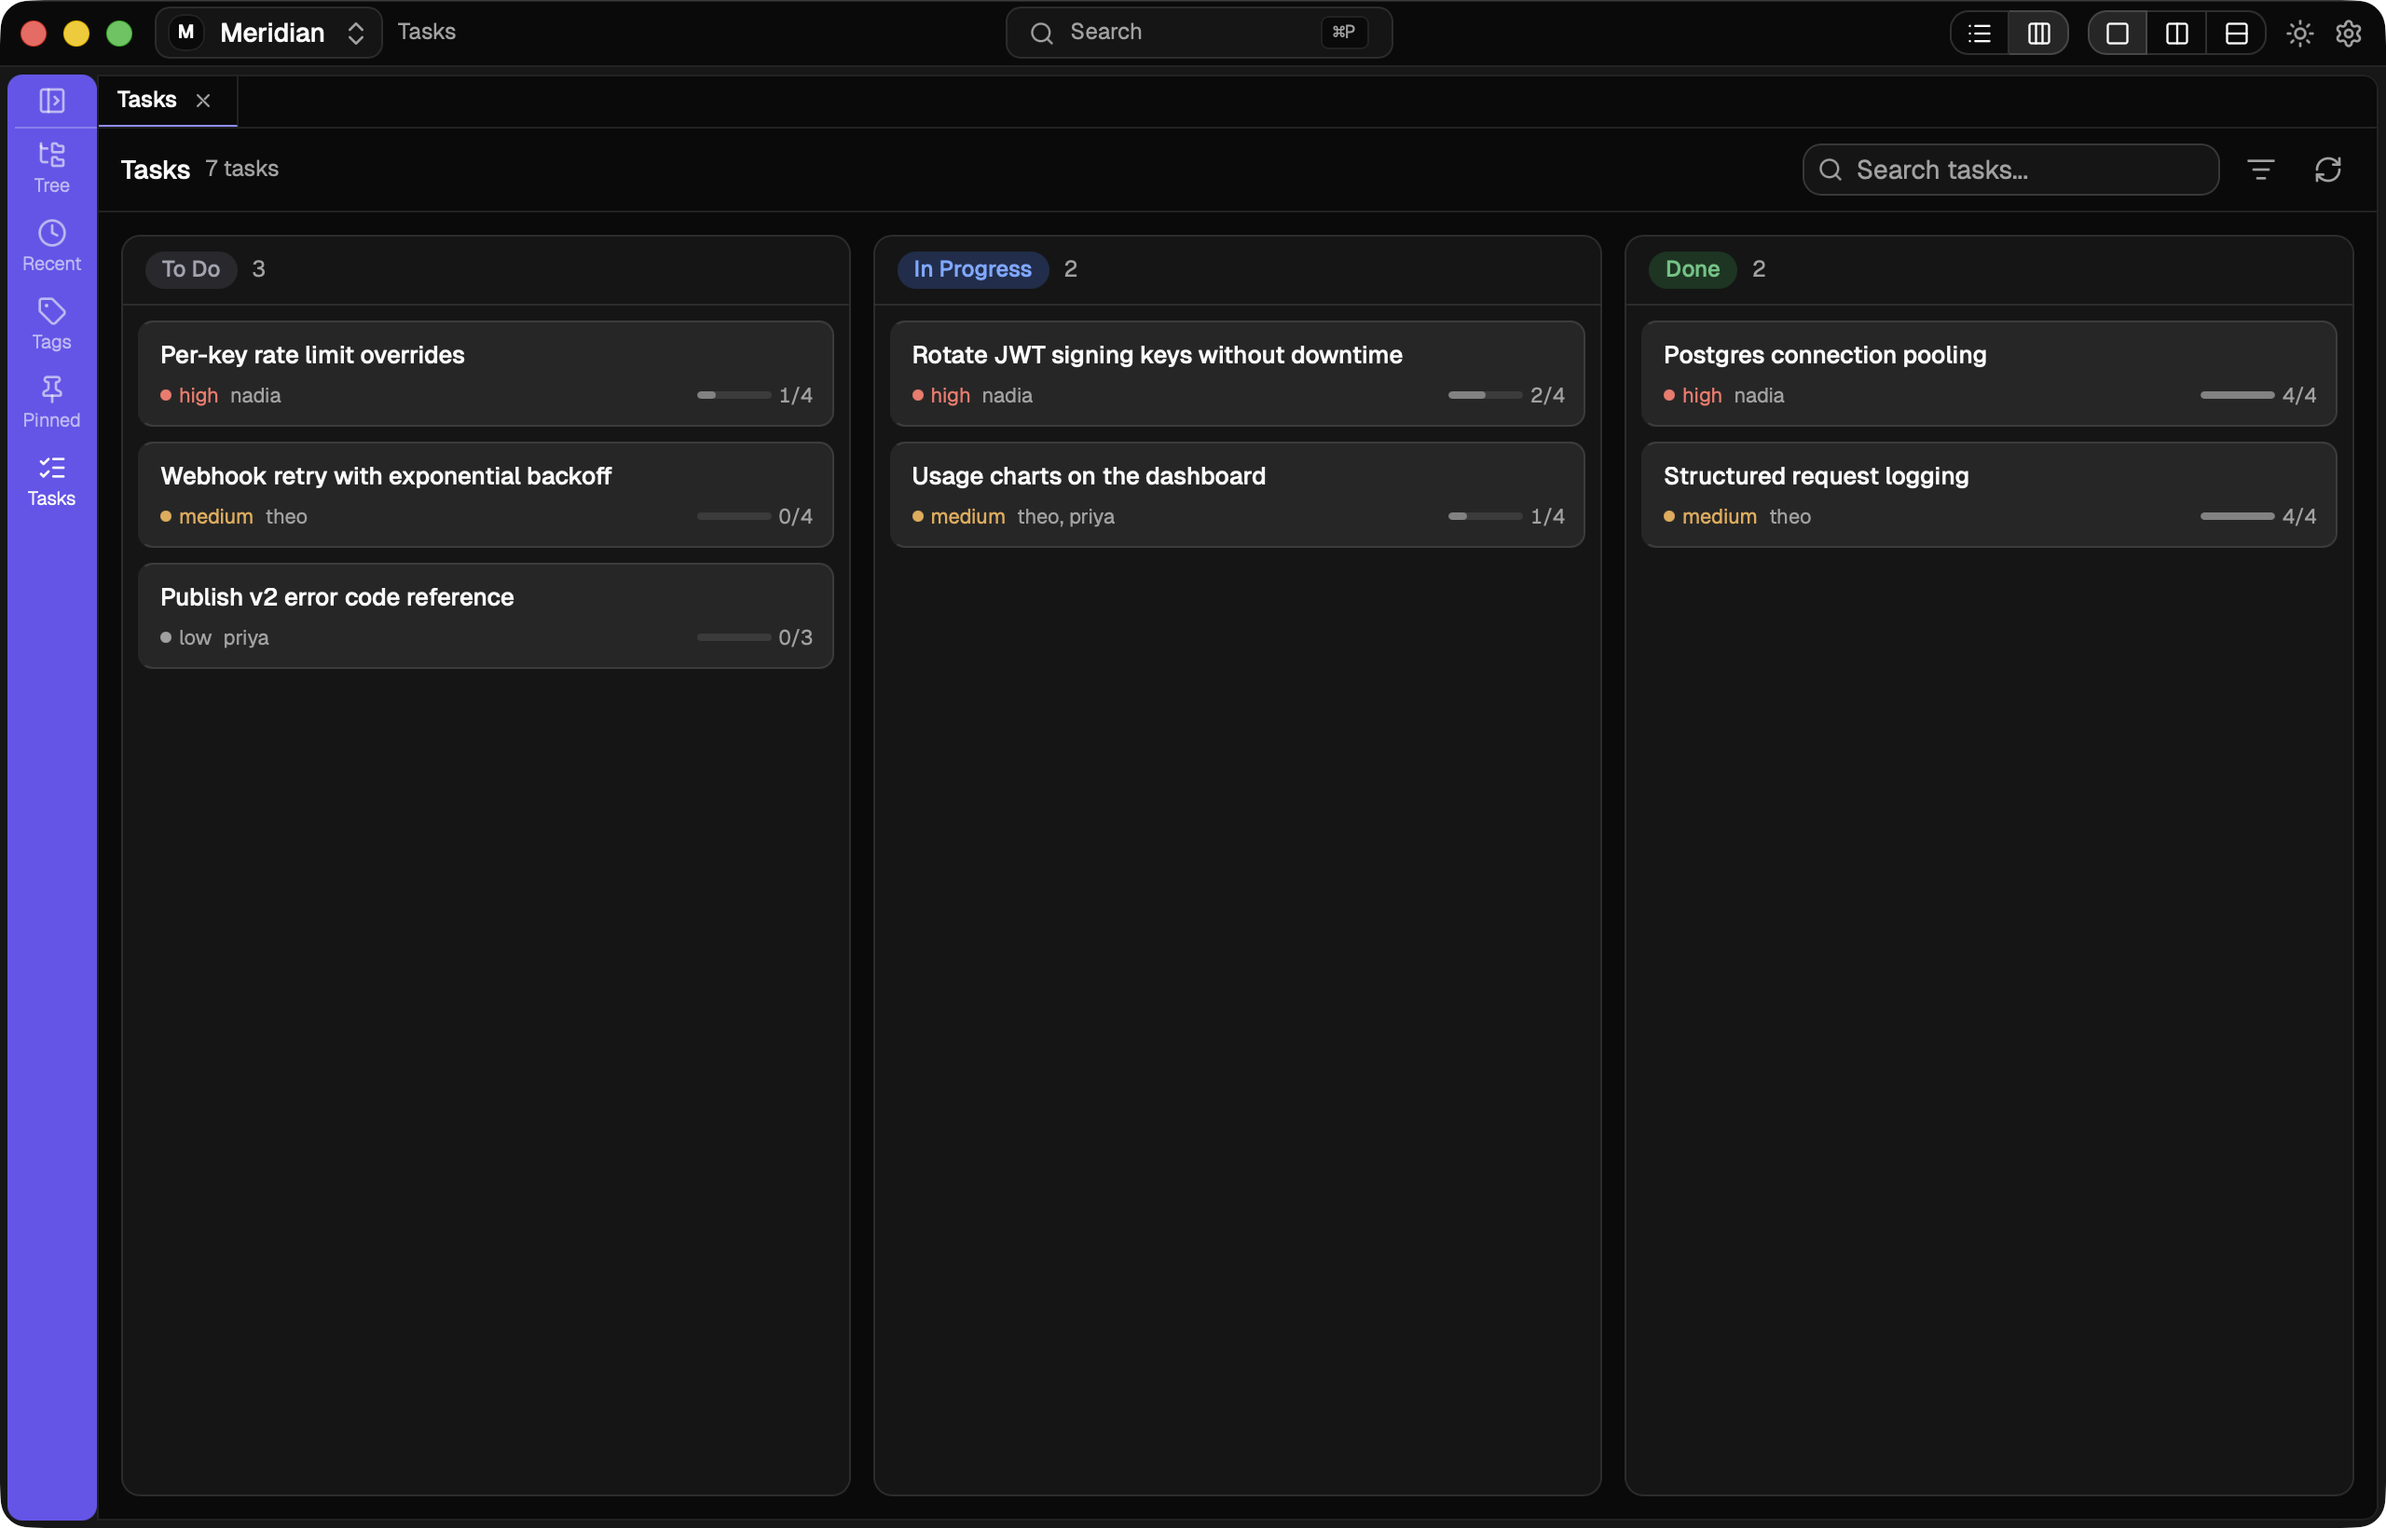
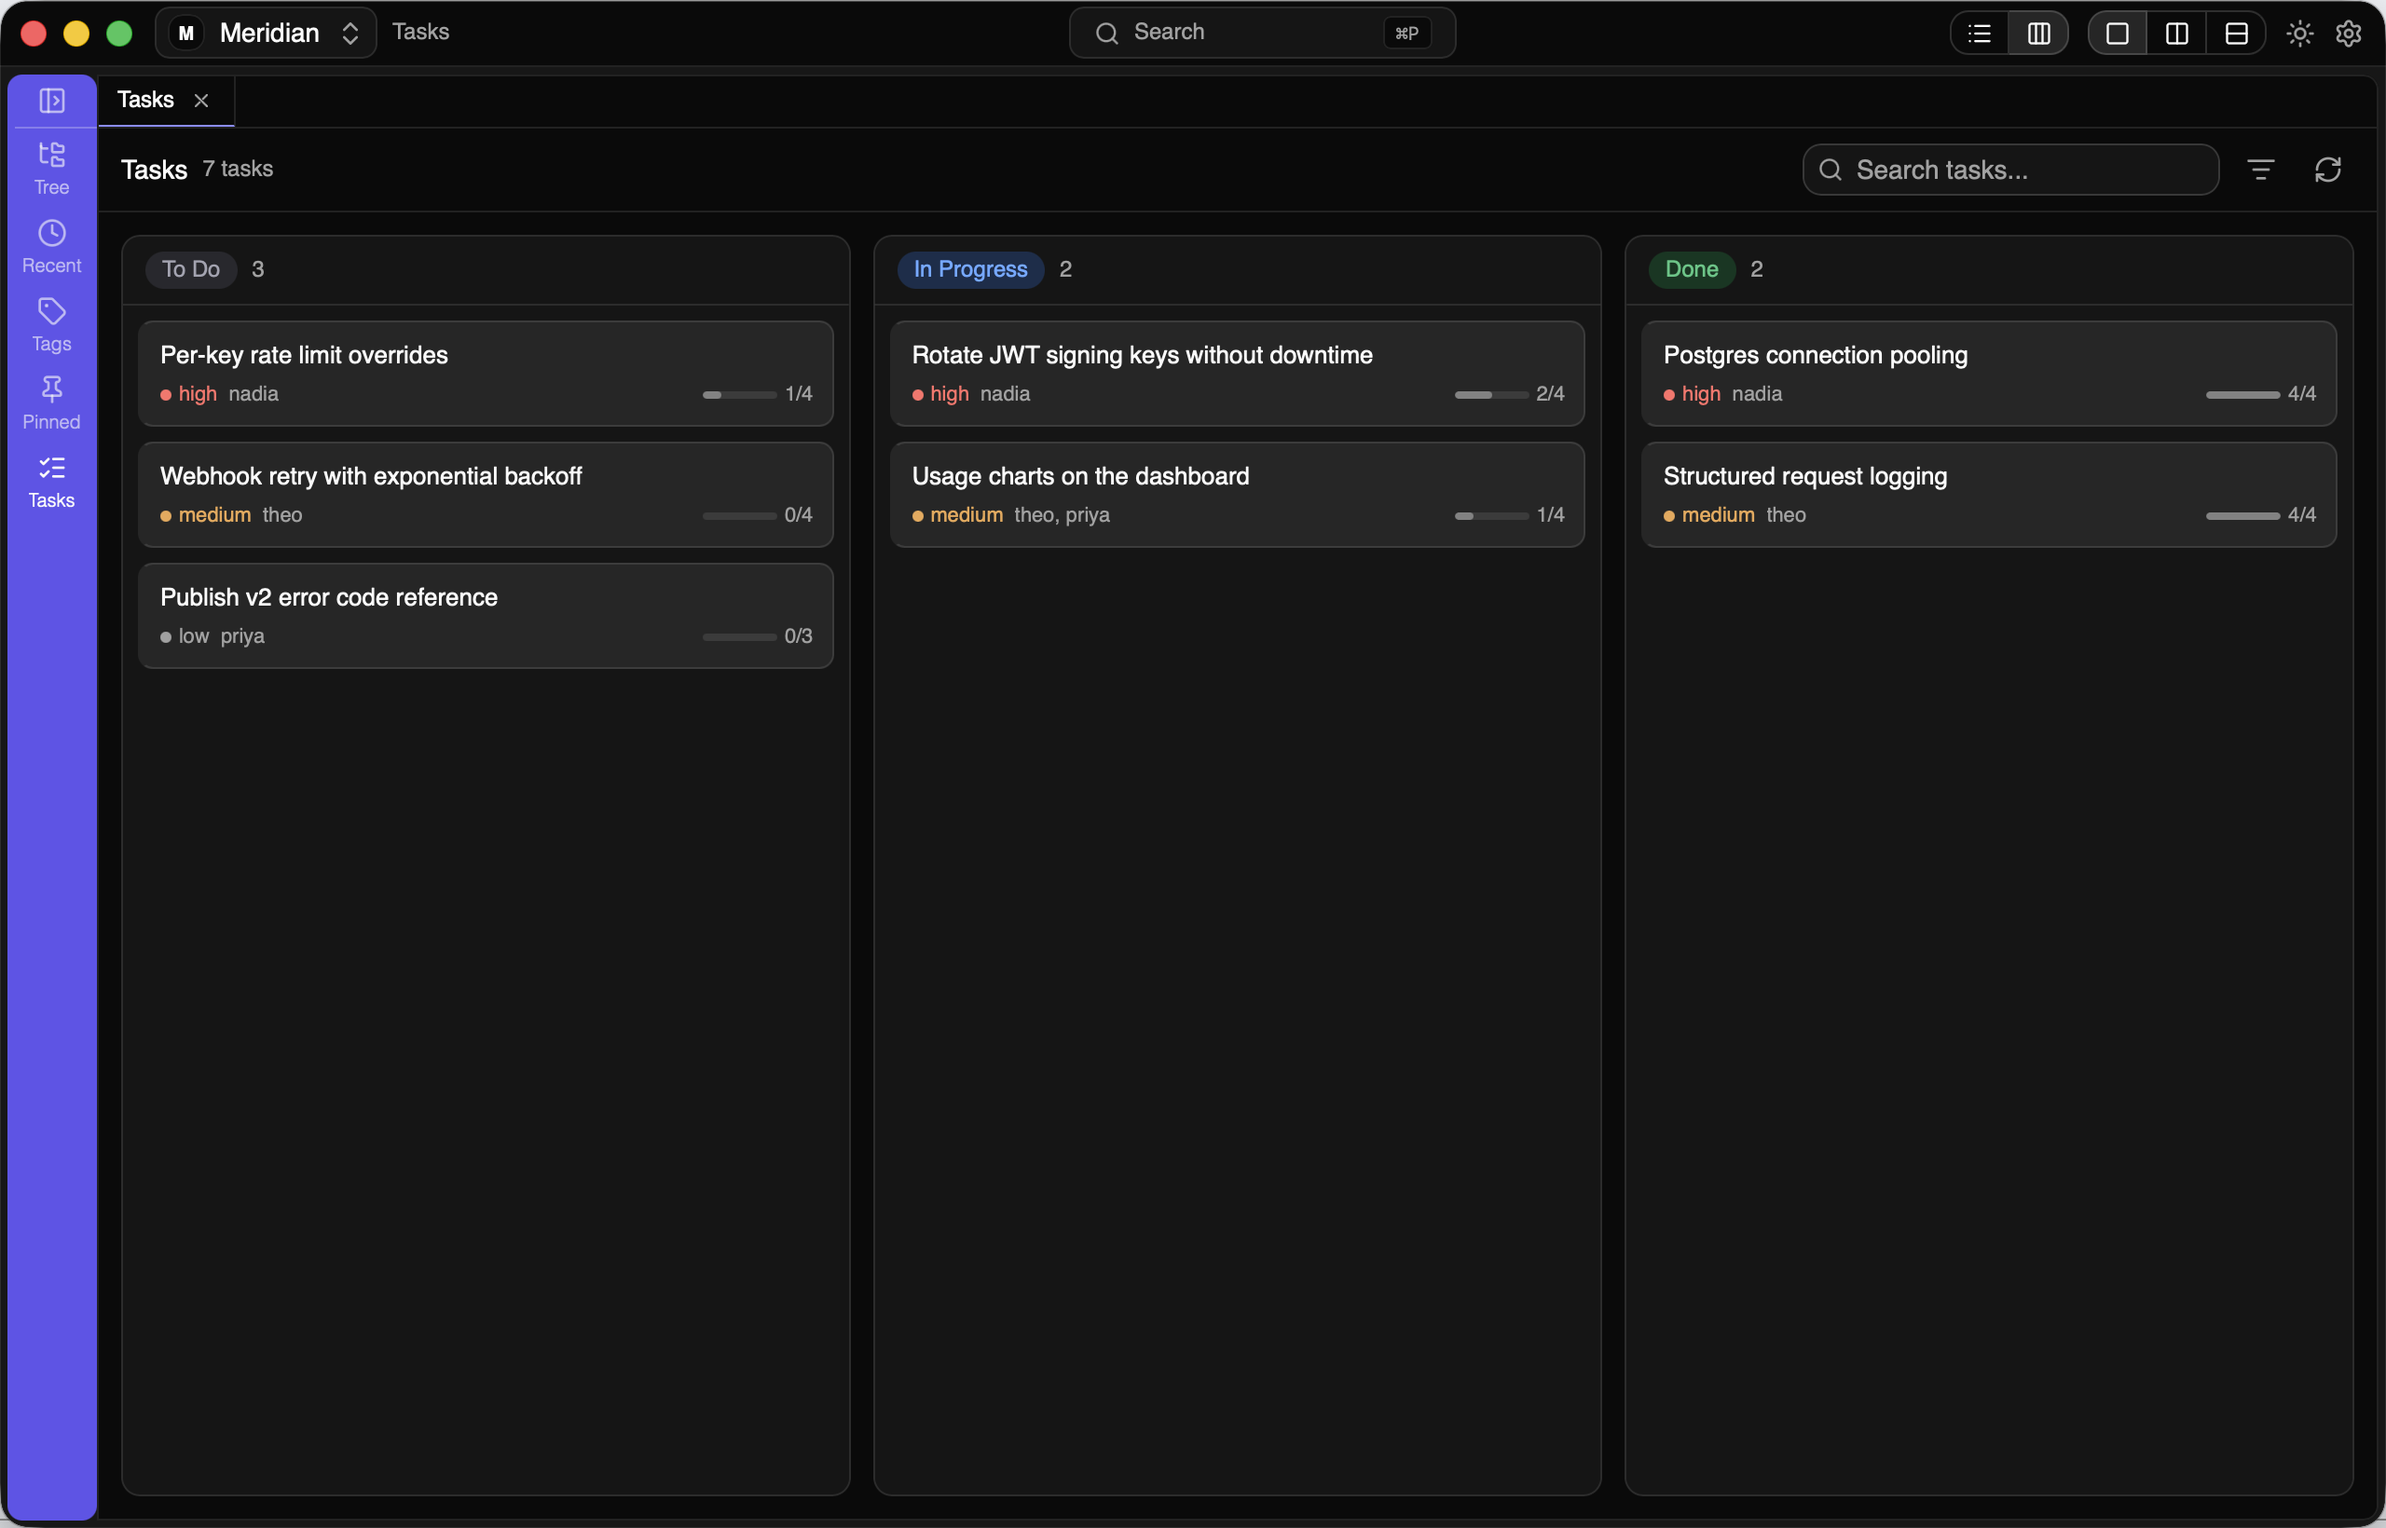
docs: add the full-window task list screenshot (#30)
Refresh the task board capture and add the full-window list view, both from
the 0.10.0 build, and show the list in the feature list.

diff --git a/docs/FEATURES.md b/docs/FEATURES.md
@@ -60,6 +60,8 @@ The full feature list for DocsReader. The [README](../README.md#features) shows 
 
 ![The Tasks board beside a task doc with its status pill and acceptance-criteria progress](screenshots/tasks-header.png)
 
+![The same tasks as a full-window list, grouped by status with labels, assignee, priority, and progress columns](screenshots/tasks-list.png)
+
 ## Quiet by default
 
 - **Minimal chrome:** flat active states, no badges, only user-initiated motion (ADHD-friendly, low visual load)
